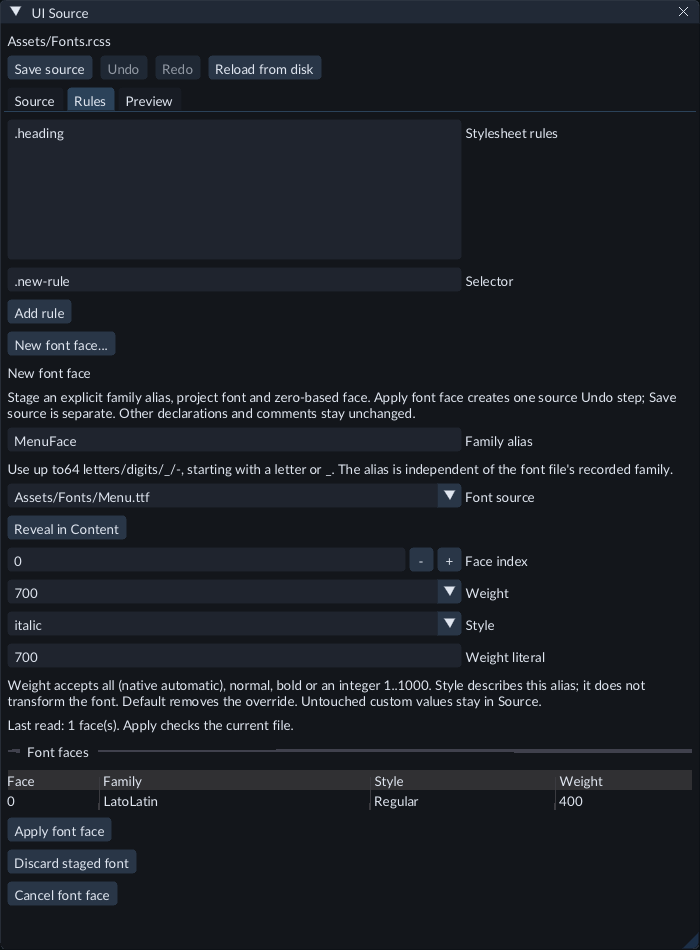
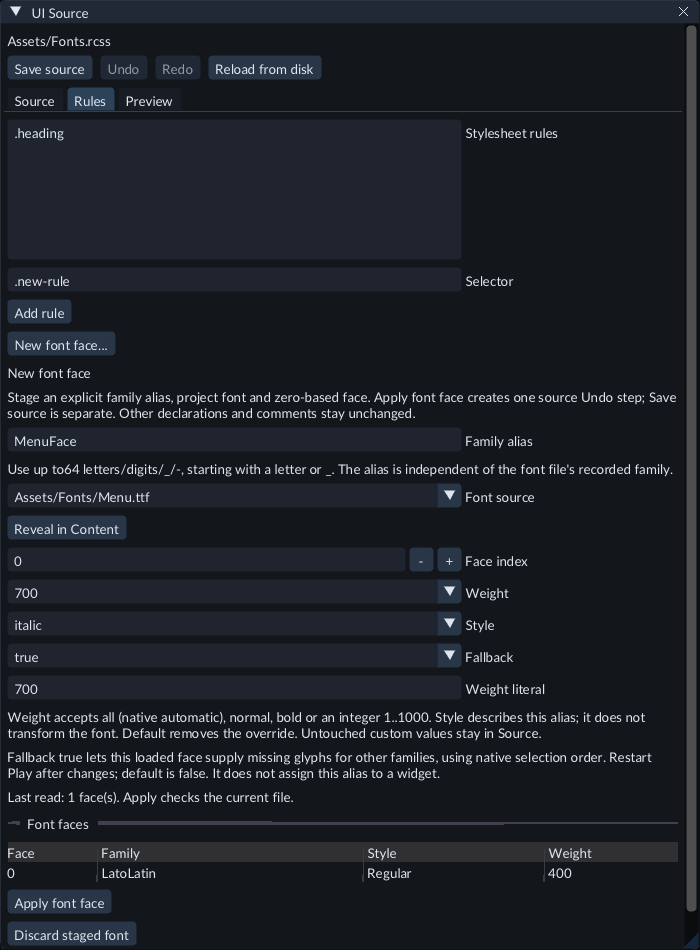
Add guided font fallback declarations

Changed region(s): [[0.0, 0.0305, 1.0, 1.0]]

diff --git a/tests/ui_font_collection_project_tests.cpp b/tests/ui_font_collection_project_tests.cpp
@@ -103,7 +103,8 @@ scrollbarvertical sliderbar {background-color:#477e9a;}
         inspect(root, asset_detail::read_bytes(fonts / "LatoLatin-Regular.ttf", 4 * 1024 * 1024)),
         scene.schema());
 }
-void author_font_selection(const std::filesystem::path& root, const std::vector<std::byte>& font) {
+AssetId author_font_selection(const std::filesystem::path& root,
+                              const std::vector<std::byte>& font) {
     ProjectLease lease(root);
     const auto catalog = AssetCatalog::open_project(root);
     const auto selected =
@@ -141,9 +142,11 @@ void author_font_selection(const std::filesystem::path& root, const std::vector<
                                       "italic");
     asset_storage::replace(path, text);
     refresh_ui_asset_catalog(lease, inspect(root, font)(document->first, {}));
+    return document->first;
 }
 void present(const std::filesystem::path& root, const std::vector<std::byte>& font,
-             const std::filesystem::path& scene_source = scene_path, bool shaped = true) {
+             const std::filesystem::path& scene_source = scene_path, bool shaped = true,
+             bool fallback = false) {
     Json saved;
     std::ifstream(root / scene_source) >> saved;
     EngineContext engine(WorldRole::Runtime, false, {ui_module(root)});
@@ -195,6 +198,14 @@ void present(const std::filesystem::path& root, const std::vector<std::byte>& fo
                       width(fonts->GetFontFaceHandle("menulatin", Rml::Style::FontStyle::Normal,
                                                      Rml::Style::FontWeight::Normal, 32)),
               "Authored font style/weight did not select the expected saved/exported faces");
+        const Rml::String arabic_language = "ar";
+        Rml::TextShapingContext rtl{arabic_language};
+        rtl.text_direction = Rml::Style::Direction::Rtl;
+        const auto arabic = fonts->GetFontFaceHandle("menuarabic", Rml::Style::FontStyle::Normal,
+                                                     Rml::Style::FontWeight::Normal, 32);
+        check((fonts->GetStringWidth(regular, "سلام", rtl) ==
+               fonts->GetStringWidth(arabic, "سلام", rtl)) == fallback,
+              "Authored fallback flag did not control actual missing-glyph native metrics");
         check(scene.snapshot() == saved, "Native collection rendering mutated the saved Scene");
     }
     check(renderer.geometry.empty() && renderer.textures.empty(), "Example resources leaked");
@@ -232,9 +243,20 @@ int main(int argc, char** argv) {
         std::filesystem::copy(argv[1], source, std::filesystem::copy_options::recursive);
         const auto font = asset_detail::read_bytes(
             std::filesystem::path(argv[3]) / "LatoLatin-Regular.ttf", 4 * 1024 * 1024);
-        author_font_selection(source, font);
+        const auto hud = author_font_selection(source, font);
         for (bool shaped : {false, true})
             present(source, font, scene_path, shaped);
+        {
+            ProjectLease lease(source);
+            const auto css = source / "Assets/UI/hud.rcss";
+            const auto text = *asset_storage::read(css);
+            asset_storage::replace(
+                css, set_ui_stylesheet_font_face_style(text, inspect_ui_stylesheet(text).size() - 1,
+                                                       {{"-rmlui-fallback-face", "true"}}));
+            refresh_ui_asset_catalog(lease, inspect(source, font)(hud, {}));
+        }
+        for (bool shaped : {false, true})
+            present(source, font, scene_path, shaped, true);
         const auto catalog = AssetCatalog::open_project(source);
         ProjectSettings settings(source);
         const std::array roots{settings.document().at("startup_scene").at("asset").get<AssetId>()};
@@ -250,7 +272,7 @@ int main(int argc, char** argv) {
                   "Collection asset ID changed during export");
         std::filesystem::rename(source, scratch / "source-offline");
         for (bool shaped : {false, true})
-            present(relocated, font, runtime_catalog.records().at(roots[0]).source, shaped);
+            present(relocated, font, runtime_catalog.records().at(roots[0]).source, shaped, true);
         std::cout << "Collection example and source-hidden relocated native font content passed\n";
         return 0;
     } catch (const std::exception& error) {

diff --git a/src/editor/ui_source_automation.hpp b/src/editor/ui_source_automation.hpp
@@ -239,6 +239,8 @@ struct UiSourceAutomation {
                 properties["style"] = Json{
                     {"oneOf", Json::array({Json{{"type", "string"}, {"enum", {"normal", "italic"}}},
                                            Json{{"type", "null"}}})}};
+                properties["fallback"] = Json{
+                    {"oneOf", Json::array({Json{{"type", "boolean"}}, Json{{"type", "null"}}})}};
             }
             const std::string description =
                 reference ? "Read a registered standalone project UI font's current source and "
@@ -253,7 +255,7 @@ struct UiSourceAutomation {
                             "source/catalog/history mutation."
                 : read_face
                     ? "Read authored literal font-family/src/-rmlui-face-index and optional "
-                      "font-weight/font-style values from a "
+                      "font-weight/font-style/-rmlui-fallback-face values from a "
                       "current top-level literal @font-face "
                       "in an RCSS draft. Current source guards/assets.read required. Uses "
                       "the existing stylesheet "
@@ -262,11 +264,13 @@ struct UiSourceAutomation {
                 : write_face
                     ? "Add or update one literal RCSS @font-face with an explicit plain family "
                       "alias, registered project "
-                      "font UUID and optional face_index(default0). Omit rule to append. Re-admits "
+                      "font UUID and optional face_index(default0). Omit rule to append. "
                       "Optional weight accepts integer1..1000 or all/normal/bold; style accepts "
                       "normal/italic. Null removes that override; omission preserves it. "
                       "Font-face all uses native automatic selection; absent style is normal. "
-                      "actual font bytes/face; "
+                      "Optional boolean fallback controls native missing-glyph fallback "
+                      "participation (default false); null removes the override. "
+                      "Re-admits actual font bytes/face; "
                       "writes a project-relative src, preserving other "
                       "declarations/comments/rules. Plain aliases are "
                       "1..64 ASCII letters/digits/_/-, starting with a letter or _. Uses existing "
@@ -303,11 +307,15 @@ struct UiSourceAutomation {
                                                    request.at("rule").get<std::size_t>())}};
                     if (write_face) {
                         std::map<std::string, std::optional<std::string>> appearance;
-                        for (const auto* name : {"weight", "style"})
+                        for (const auto* name : {"weight", "style", "fallback"})
                             if (request.contains(name)) {
                                 const auto& value = request.at(name);
-                                appearance[std::string("font-") + name] =
-                                    value.is_null() ? std::nullopt
+                                appearance[std::string_view(name) == "fallback"
+                                               ? "-rmlui-fallback-face"
+                                               : std::string("font-") + name] =
+                                    value.is_null()      ? std::nullopt
+                                    : value.is_boolean() ? std::optional<std::string>(
+                                                               value.get<bool>() ? "true" : "false")
                                     : value.is_number_integer()
                                         ? std::optional(std::to_string(value.get<int>()))
                                         : std::optional(value.get<std::string>());

diff --git a/src/editor/ui_source_editor.hpp b/src/editor/ui_source_editor.hpp
@@ -183,7 +183,7 @@ class UiSourceEditor {
             if (rule) {
                 try {
                     const auto values = read_ui_stylesheet_font_face(editor_.GetText(), *rule);
-                    for (const auto* name : {"font-weight", "font-style"})
+                    for (const auto* name : {"font-weight", "font-style", "-rmlui-fallback-face"})
                         if (const auto found = values.find(name); found != values.end())
                             font_appearance_values_[name] = found->second;
                     const auto& weight = font_appearance_values_["font-weight"];
@@ -247,14 +247,18 @@ class UiSourceEditor {
         }
         ImGui::InputInt("Face index", &font_face_index_);
         FORGE_UI_PROBE("ui-source:font-face-index");
-        for (const auto* name : {"font-weight", "font-style"}) {
+        for (const auto* name : {"font-weight", "font-style", "-rmlui-fallback-face"}) {
             const bool weight = std::string_view(name) == "font-weight";
+            const bool fallback = std::string_view(name) == "-rmlui-fallback-face";
             const auto profile = ui_style_literal_profile(name);
             auto& value = font_appearance_values_[name];
-            const bool open = ImGui::BeginCombo(
-                weight ? "Weight" : "Style",
-                value.empty() ? (weight ? "Automatic (default)" : "Normal (default)")
-                              : value.c_str());
+            const bool open = ImGui::BeginCombo(weight     ? "Weight"
+                                                : fallback ? "Fallback"
+                                                           : "Style",
+                                                value.empty() ? (weight     ? "Automatic (default)"
+                                                                 : fallback ? "False (default)"
+                                                                            : "Normal (default)")
+                                                              : value.c_str());
             FORGE_UI_PROBE("ui-source:font-preset:" + std::string(name));
             if (open) {
                 const auto choice = [&](const char* label, std::optional<std::string> literal) {
@@ -269,8 +273,12 @@ class UiSourceEditor {
                 choice("Default (remove override)", {});
                 if (weight)
                     choice("all", "all");
-                for (const auto keyword : profile->keywords)
-                    choice(keyword.data(), std::string(keyword));
+                if (fallback) {
+                    choice("false", "false");
+                    choice("true", "true");
+                } else
+                    for (const auto keyword : profile->keywords)
+                        choice(keyword.data(), std::string(keyword));
                 ImGui::EndCombo();
             }
         }
@@ -282,6 +290,9 @@ class UiSourceEditor {
         ImGui::TextWrapped("Weight accepts all (native automatic), normal, bold or an integer "
                            "1..1000. Style describes this alias; it does not transform the font. "
                            "Default removes the override. Untouched custom values stay in Source.");
+        ImGui::TextWrapped("Fallback true lets this loaded face supply missing glyphs for other "
+                           "families, using native selection order. Restart Play after changes; "
+                           "default is false. It does not assign this alias to a widget.");
         if (font_face_details_.is_object()) {
             ImGui::TextWrapped("Last read: %u face(s). Apply checks the current file.",
                                font_face_details_.at("faces").get<unsigned>());

diff --git a/tests/ui_source_editor_tests.cpp b/tests/ui_source_editor_tests.cpp
@@ -165,6 +165,8 @@ void exercise(const std::filesystem::path& output, int width,
         input.type("ui-source:font-weight", "700");
         input.click("ui-source:font-preset:font-style");
         input.select("ui-source:font-choice:font-style:italic");
+        input.click("ui-source:font-preset:-rmlui-fallback-face");
+        input.select("ui-source:font-choice:-rmlui-fallback-face:true");
         check(editor.state() == before && asset_storage::read(css) == stylesheet,
               "Font controls changed source/history/disk before Apply");
         frame();
@@ -175,6 +177,7 @@ void exercise(const std::filesystem::path& output, int width,
         check(created.at("rule_selection") == 1 && values.at("font-family") == "MenuFace" &&
                   values.at("src") == "\"Assets/Fonts/Menu.ttf\"" &&
                   values.at("-rmlui-face-index") == "0" && values.at("font-weight") == "700" &&
+                  values.at("-rmlui-fallback-face") == "true" &&
                   values.at("font-style") == "italic" && asset_storage::read(css) == stylesheet,
               "Font declaration lost source scope, alias, face or explicit Save");
         input.click("button:Undo");
@@ -203,11 +206,14 @@ void exercise(const std::filesystem::path& output, int width,
         input.select("ui-source:font-choice:font-weight:Default (remove override)");
         input.click("ui-source:font-preset:font-style");
         input.select("ui-source:font-choice:font-style:Default (remove override)");
+        input.click("ui-source:font-preset:-rmlui-fallback-face");
+        input.select("ui-source:font-choice:-rmlui-fallback-face:Default (remove override)");
         check(editor.state() == styled, "Default reset published before Apply");
         input.click("ui-source:font-apply");
         const auto reset = editor.state();
         check(!editor.font_face_properties(1).contains("font-weight") &&
-                  !editor.font_face_properties(1).contains("font-style"),
+                  !editor.font_face_properties(1).contains("font-style") &&
+                  !editor.font_face_properties(1).contains("-rmlui-fallback-face"),
               "Font reset retained guessed defaults");
         input.click("button:Undo");
         check(editor.state().at("text") == styled.at("text"),

diff --git a/src/ui_markup_authoring.cpp b/src/ui_markup_authoring.cpp
@@ -960,8 +960,8 @@ std::map<std::string, std::string> read_ui_stylesheet_font_face(std::string_view
     const auto text = source.substr(rule.content.begin, rule.content.end - rule.content.begin);
     const auto declarations = inspect_ui_style(text);
     std::map<std::string, std::string> result;
-    for (const auto* name :
-         {"font-family", "src", "-rmlui-face-index", "font-weight", "font-style"})
+    for (const auto* name : {"font-family", "src", "-rmlui-face-index", "font-weight", "font-style",
+                             "-rmlui-fallback-face"})
         if (const auto* found = style_property(text, declarations, name)) {
             const auto range = trimmed(text, found->value);
             result[name] = std::string(text.substr(range.begin, range.end - range.begin));
@@ -1046,10 +1046,13 @@ std::string set_ui_stylesheet_font_face_style(
     const auto range = font_face_rule(source, rules, index).content;
     std::string body(source.substr(range.begin, range.end - range.begin));
     for (const auto& [name, value] : properties) {
-        require(name == "font-weight" || name == "font-style",
-                "Font appearance accepts only font-weight and font-style");
+        const bool fallback = name == "-rmlui-fallback-face";
+        require(name == "font-weight" || name == "font-style" || fallback,
+                "Use a supported font declaration property");
         std::optional<UiStyleNumber> number;
-        if (value) {
+        if (value && fallback)
+            require(*value == "true" || *value == "false", "Use true or false for font fallback");
+        else if (value) {
             const auto profile = ui_style_literal_profile(name);
             const bool keyword =
                 std::ranges::find(profile->keywords, *value) != profile->keywords.end();
@@ -1070,7 +1073,7 @@ std::string set_ui_stylesheet_font_face_style(
             if (old == *value || (number && read_ui_style_number(old) == number))
                 continue;
         }
-        const auto edit = style_edit(body, declarations, name, value);
+        const auto edit = style_value_edit(body, declarations, name, value);
         body.replace(edit.first.begin, edit.first.end - edit.first.begin, edit.second);
     }
     return replaced(source, range, body, false);

diff --git a/tests/mcp_ui_source_fonts.py b/tests/mcp_ui_source_fonts.py
@@ -54,13 +54,15 @@ def check_font_source(read, ok, mutate, root, advertised, client, arguments, gua
     font_path.write_bytes(font_bytes)
     assert edit('undo')['text'] == baseline['text'], 'Font append/replay needed multiple Undo steps'
     assert edit('redo')['text'] == created['text']
-    changed = edit('font_face', rule=1, family='MenuUpdated', asset=font, weight=700, style='italic')
+    changed = edit('font_face', rule=1, family='MenuUpdated', asset=font,
+                   weight=700, style='italic', fallback=True)
     assert changed['rule_selection'] == 1
     assert read('forge_ui_source_font_face_read', **guard(), rule=1)['values']['font-family'] == 'MenuUpdated'
     styled = read('forge_ui_source_font_face_read', **guard(), rule=1)['values']
     assert styled['font-weight'] == '700' and styled['font-style'] == 'italic'
+    assert styled['-rmlui-fallback-face'] == 'true'
     for extra in [dict(weight=0), dict(weight=1001), dict(weight=450.5), dict(weight=True),
-                  dict(style='oblique')]:
+                  dict(style='oblique'), dict(fallback='true'), dict(fallback=1)]:
         assert not mutate('forge_ui_source_font_face', **guard(), rule=1,
                           family='MenuUpdated', asset=font, **extra)['ok']
         assert read('forge_ui_source_read') == changed
@@ -72,9 +74,11 @@ def check_font_source(read, ok, mutate, root, advertised, client, arguments, gua
     assert edit('undo')['text'] == changed['text']
     assert edit('redo')['text'] == automatic['text']
     changed = automatic
-    reset = edit('font_face', rule=1, family='MenuUpdated', asset=font, weight=None, style=None)
+    reset = edit('font_face', rule=1, family='MenuUpdated', asset=font,
+                 weight=None, style=None, fallback=None)
     defaults = read('forge_ui_source_font_face_read', **guard(), rule=1)['values']
     assert 'font-weight' not in defaults and 'font-style' not in defaults
+    assert '-rmlui-fallback-face' not in defaults
     assert edit('undo')['text'] == changed['text']
     assert edit('redo')['text'] == reset['text']
     changed = edit('undo')

diff --git a/tests/ui_markup_tests.cpp b/tests/ui_markup_tests.cpp
@@ -835,6 +835,22 @@ void font_face_style_sources() {
         [&] { forge::set_ui_stylesheet_font_face_style(source, 0, {{"font-style", "oblique"}}); });
     rejects([&] { forge::set_ui_stylesheet_font_face_style(source, 0, {{"color", "red"}}); });
     rejects([&] { forge::set_ui_stylesheet_font_face_style(source, 1, {{"font-weight", "700"}}); });
+    const auto fallback =
+        forge::set_ui_stylesheet_font_face_style(styled, 0, {{"-rmlui-fallback-face", "true"}});
+    check(forge::read_ui_stylesheet_font_face(fallback, 0).at("-rmlui-fallback-face") == "true" &&
+              forge::set_ui_stylesheet_font_face_style(
+                  fallback, 0, {{"-rmlui-fallback-face", "true"}}) == fallback,
+          "Font fallback literal or no-op spelling changed");
+    const auto disabled =
+        forge::set_ui_stylesheet_font_face_style(fallback, 0, {{"-rmlui-fallback-face", "false"}});
+    check(forge::read_ui_stylesheet_font_face(disabled, 0).at("-rmlui-fallback-face") == "false" &&
+              forge::set_ui_stylesheet_font_face_style(fallback, 0,
+                                                       {{"-rmlui-fallback-face", {}}}) == styled,
+          "Font fallback false/reset changed unrelated appearance");
+    for (const auto* value : {"yes", "1", "true;src:bad.ttf"})
+        rejects([&] {
+            forge::set_ui_stylesheet_font_face_style(source, 0, {{"-rmlui-fallback-face", value}});
+        });
 }
 void reusable_styles() {
     const std::string source =

diff --git a/manual/editor/ui-source.md b/manual/editor/ui-source.md
@@ -761,7 +761,7 @@ registering a file does not load its family into a document.
 6. Assign that alias using `font-family` in an existing selector or the RML widget's **Inline style** controls, then save that source. For example, use `font-family:MenuFace` and `font-size:28px` on the text you want to style.
 7. Return to the linked RML document and **Refresh preview**, or restart Play after replacing an already loaded font family. Register / refresh the UI resources before exporting the saved project.
 
-![A staged font declaration with an explicit alias, source, face index, weight, style and recorded face details](../images/ui-source-font-face.png)
+![A staged font declaration with an explicit alias, source, face index, weight, style, fallback and recorded face details](../images/ui-source-font-face.png)
 
 The alias, font selection, weight and style stay staged until **Apply font face**.
 Before applying, set **Weight** and **Style** if the alias describes a particular
@@ -778,6 +778,15 @@ the selected text mode; see [UI text shaping](ui-text-shaping.md).
 An invalid weight leaves the source unchanged; correct it and apply again.
 Several faces can share one alias with different weight/style settings.
 
+Set **Fallback** to **true** to let the loaded face provide glyphs that another
+font lacks. Choose a file that contains the required characters. **false** or
+**Default (remove override)** leaves it out of the fallback list; default removal
+takes effect on Apply. The native font owner chooses among loaded fallback faces
+in its existing order. This does not assign the alias to a widget or guarantee
+coverage of every script. With **Shape UI text**, a fallback face must cover the
+whole run. Save the stylesheet, refresh the UI resources and restart Play after
+changing a loaded font declaration. Export uses the saved declaration.
+
 Font `src` values are **project relative**, such as `Assets/Fonts/Menu.ttf`, even
 when the stylesheet is in another folder. Stylesheet links and image references
 remain document relative. The RML document needs an explicit `<head>` containing
@@ -793,7 +802,7 @@ Scene or asset catalog.
 
 Guided aliases use 1–64 ASCII letters, digits, `_` or `-`, beginning with a letter
 or `_`. Use **Source** for other alias forms, escaped declarations or ambiguous
-matching properties. Untouched custom weight/style values, other declarations
+matching properties. Untouched custom weight/style/fallback values, other declarations
 and surrounding comments remain intact. Unchanged supported quoted
 literals, numeric index spelling and an omitted default face index stay unchanged.
 The face index must be below the file's face count and below 32. Face names, color

diff --git a/manual/README.md b/manual/README.md
@@ -85,7 +85,7 @@ content may differ; use **Window** to open a panel mentioned in a guide.
 - [Audio: import, stream, create ordered playlists, event sound cues, offsets, repeating and finite runs, filters, source/shared bus effects, impulse responses, buses/sends, live mixing and music/UI pause](editor/audio.md)
 - [Runtime UI: HUDs, interactive quad/animated-mesh surfaces, camera-image panels, menus, animation, filters, shadows, backdrops, gradients, alpha/luminance masks and static/animated panel shadows](editor/runtime-ui.md)
 - [Animate named UI values with a Scene sequence](editor/sequence-ui.md)
-- [Create UI controls, zoom and scroll Preview, select with a rectangle or keyboard, duplicate and delete, choose or drop project images, declare project fonts and collection faces with weight and style, edit properties and styles, align or size groups, snap and constrain drags, retain visible aspect and move with arrow keys](editor/ui-source.md)
+- [Create UI controls, zoom and scroll Preview, select with a rectangle or keyboard, duplicate and delete, choose or drop project images, declare project fonts and collection faces with weight, style and missing-glyph fallback, edit properties and styles, align or size groups, snap and constrain drags, retain visible aspect and move with arrow keys](editor/ui-source.md)
 - [Shape game UI text: ligatures, script runs, collections, weights and layered color glyphs](editor/ui-text-shaping.md)
 - [Edit and select whole UI characters: arrows, words, lines/pages, deletion, agent testing and native input limits](editor/ui-text-input.md)
 - [Form controls: buttons, sliders, checkboxes, radio groups, dropdowns, progress, keyboard input and agent testing](editor/ui-form-controls.md)

diff --git a/docs/mcp.md b/docs/mcp.md
@@ -2916,12 +2916,16 @@ Four source operations extend the shared source owner (45total):
   not authored aliases or native loaded state. No native/GPU initialization.
 - `ui.source.font_face_read`: assets.read/current guards/RCSS/rule; returns
   `{rule,values}` for raw literal font-family/src/-rmlui-face-index and authored
-  font-weight/font-style when present. No mutation or inferred defaults.
+  font-weight/font-style/-rmlui-fallback-face when present. No inferred defaults.
 - `ui.source.font_face`: assets.write/current guards/RCSS, asset, family and optional
-  face_index/rule/weight/style. Weight is integer1..1000 or all/normal/bold; style
+  face_index/rule/weight/style/fallback. Weight is integer1..1000 or all/normal/bold; style
   is normal/italic. Omission preserves authored literals; null removes an override.
-  Native font-face all uses native automatic selection; absent style is normal. Existing literal
-  profiles validate edits, with all scoped to font faces. Alias/source/index and
+  Native font-face all uses native automatic selection; absent style is normal.
+  Optional boolean fallback maps to the fixed native -rmlui-fallback-face
+  declaration, defaultfalse; omission preserves and null removes its override.
+  The closed property whitelist reuses private value patches without widening
+  general CSS identifier admission. Native loaded-face fallback order is retained.
+  Existing literal profiles validate edits, with all scoped to font faces. Alias/source/index and
   appearance compose before one publication; failed validation changes no source.
   Omit rule to append. Plain aliases are1..64ASCII letters/digits/
   underscore/hyphen, first letter/underscore. Current file/index are validated;

diff --git a/manual/editor/ui-text-shaping.md b/manual/editor/ui-text-shaping.md
@@ -223,7 +223,7 @@ See [Export a game](runtime-content.md) for the normal export workflow.
 
 ## Limits and troubleshooting
 
-- Missing glyph boxes usually mean the selected font lacks those characters. Assign a font containing the script. Fallback chooses a face covering a whole run; arbitrary mixed-script fallback is unavailable.
+- Missing glyph boxes usually mean the selected font lacks those characters. Assign a font containing the script. With Shape UI text, fallback chooses a face covering a whole run; arbitrary mixed-script fallback is unavailable. Enable **Fallback** in the linked stylesheet's font-face controls, save and restart Play to add a loaded face to that list. See [Declare a project font](ui-source.md).
 - Use horizontal text and font sizes from **1–512 px**. A single run supports **64 KiB** of UTF-8 and **16,384 glyphs**, within the normal document limits.
 - Only the admitted weight axis is adjustable through `font-weight`; other axis controls, named variation instances and vertical text are unavailable. Color rendering is limited to COLRv0 vector layers with palette 0; COLRv1 paints, SVG glyphs, bitmap color fonts and general color emoji are unsupported. Use a valid zero-based collection face index; an invalid index reports a font diagnostic.
 - Shaping does not provide full paragraph bidirectional layout, joining across separate elements, complete international input methods or accessibility. Use the separate [Edit whole UI characters](ui-text-input.md) option for bounded plain-key movement/deletion, Shift-arrow selection and Ctrl-arrow word movement/selection. Check text entry on your target systems.

diff --git a/docs/images/readme/README.md b/docs/images/readme/README.md
@@ -3596,3 +3596,18 @@ capture, without full Main/Windows/MSVC/D3D12/physical-device acceptance. Other3
 canonical Source figures retain their prior exact provenance.
 
 Current manual/images/ui-source-font-face.png SHA256: f4153f4a6cba984056806f8316fe3c8e52d267e6bd3b6787423c040c0abbdca1.
+
+
+## Font fallback declaration controls
+
+The canonical font-face image is refreshed from the passing native form workflow
+at700x950 on2026-11-10, development based onb0bc7f5. Fallback true is staged before
+Apply alongside alias/source/index/weight/style; the table still describes the
+actual file. Native controls/history/reset/Save pass at1180/700/400. The image is
+unretouched SDL software component output, with no fullMain/Windows/physical
+acceptance. Other39canonical images retain exact prior attribution. Separate
+native tests compare missing-glyph metrics with fallback absent/enabled in both
+text modes and after source-hidden relocation; the image alone proves no script
+coverage or font rendering quality.
+
+Current manual/images/ui-source-font-face.png SHA256: 382b567b00fdd90665da0575acb430ce7c875df0727ffcce8f13a4be034b14ee.
